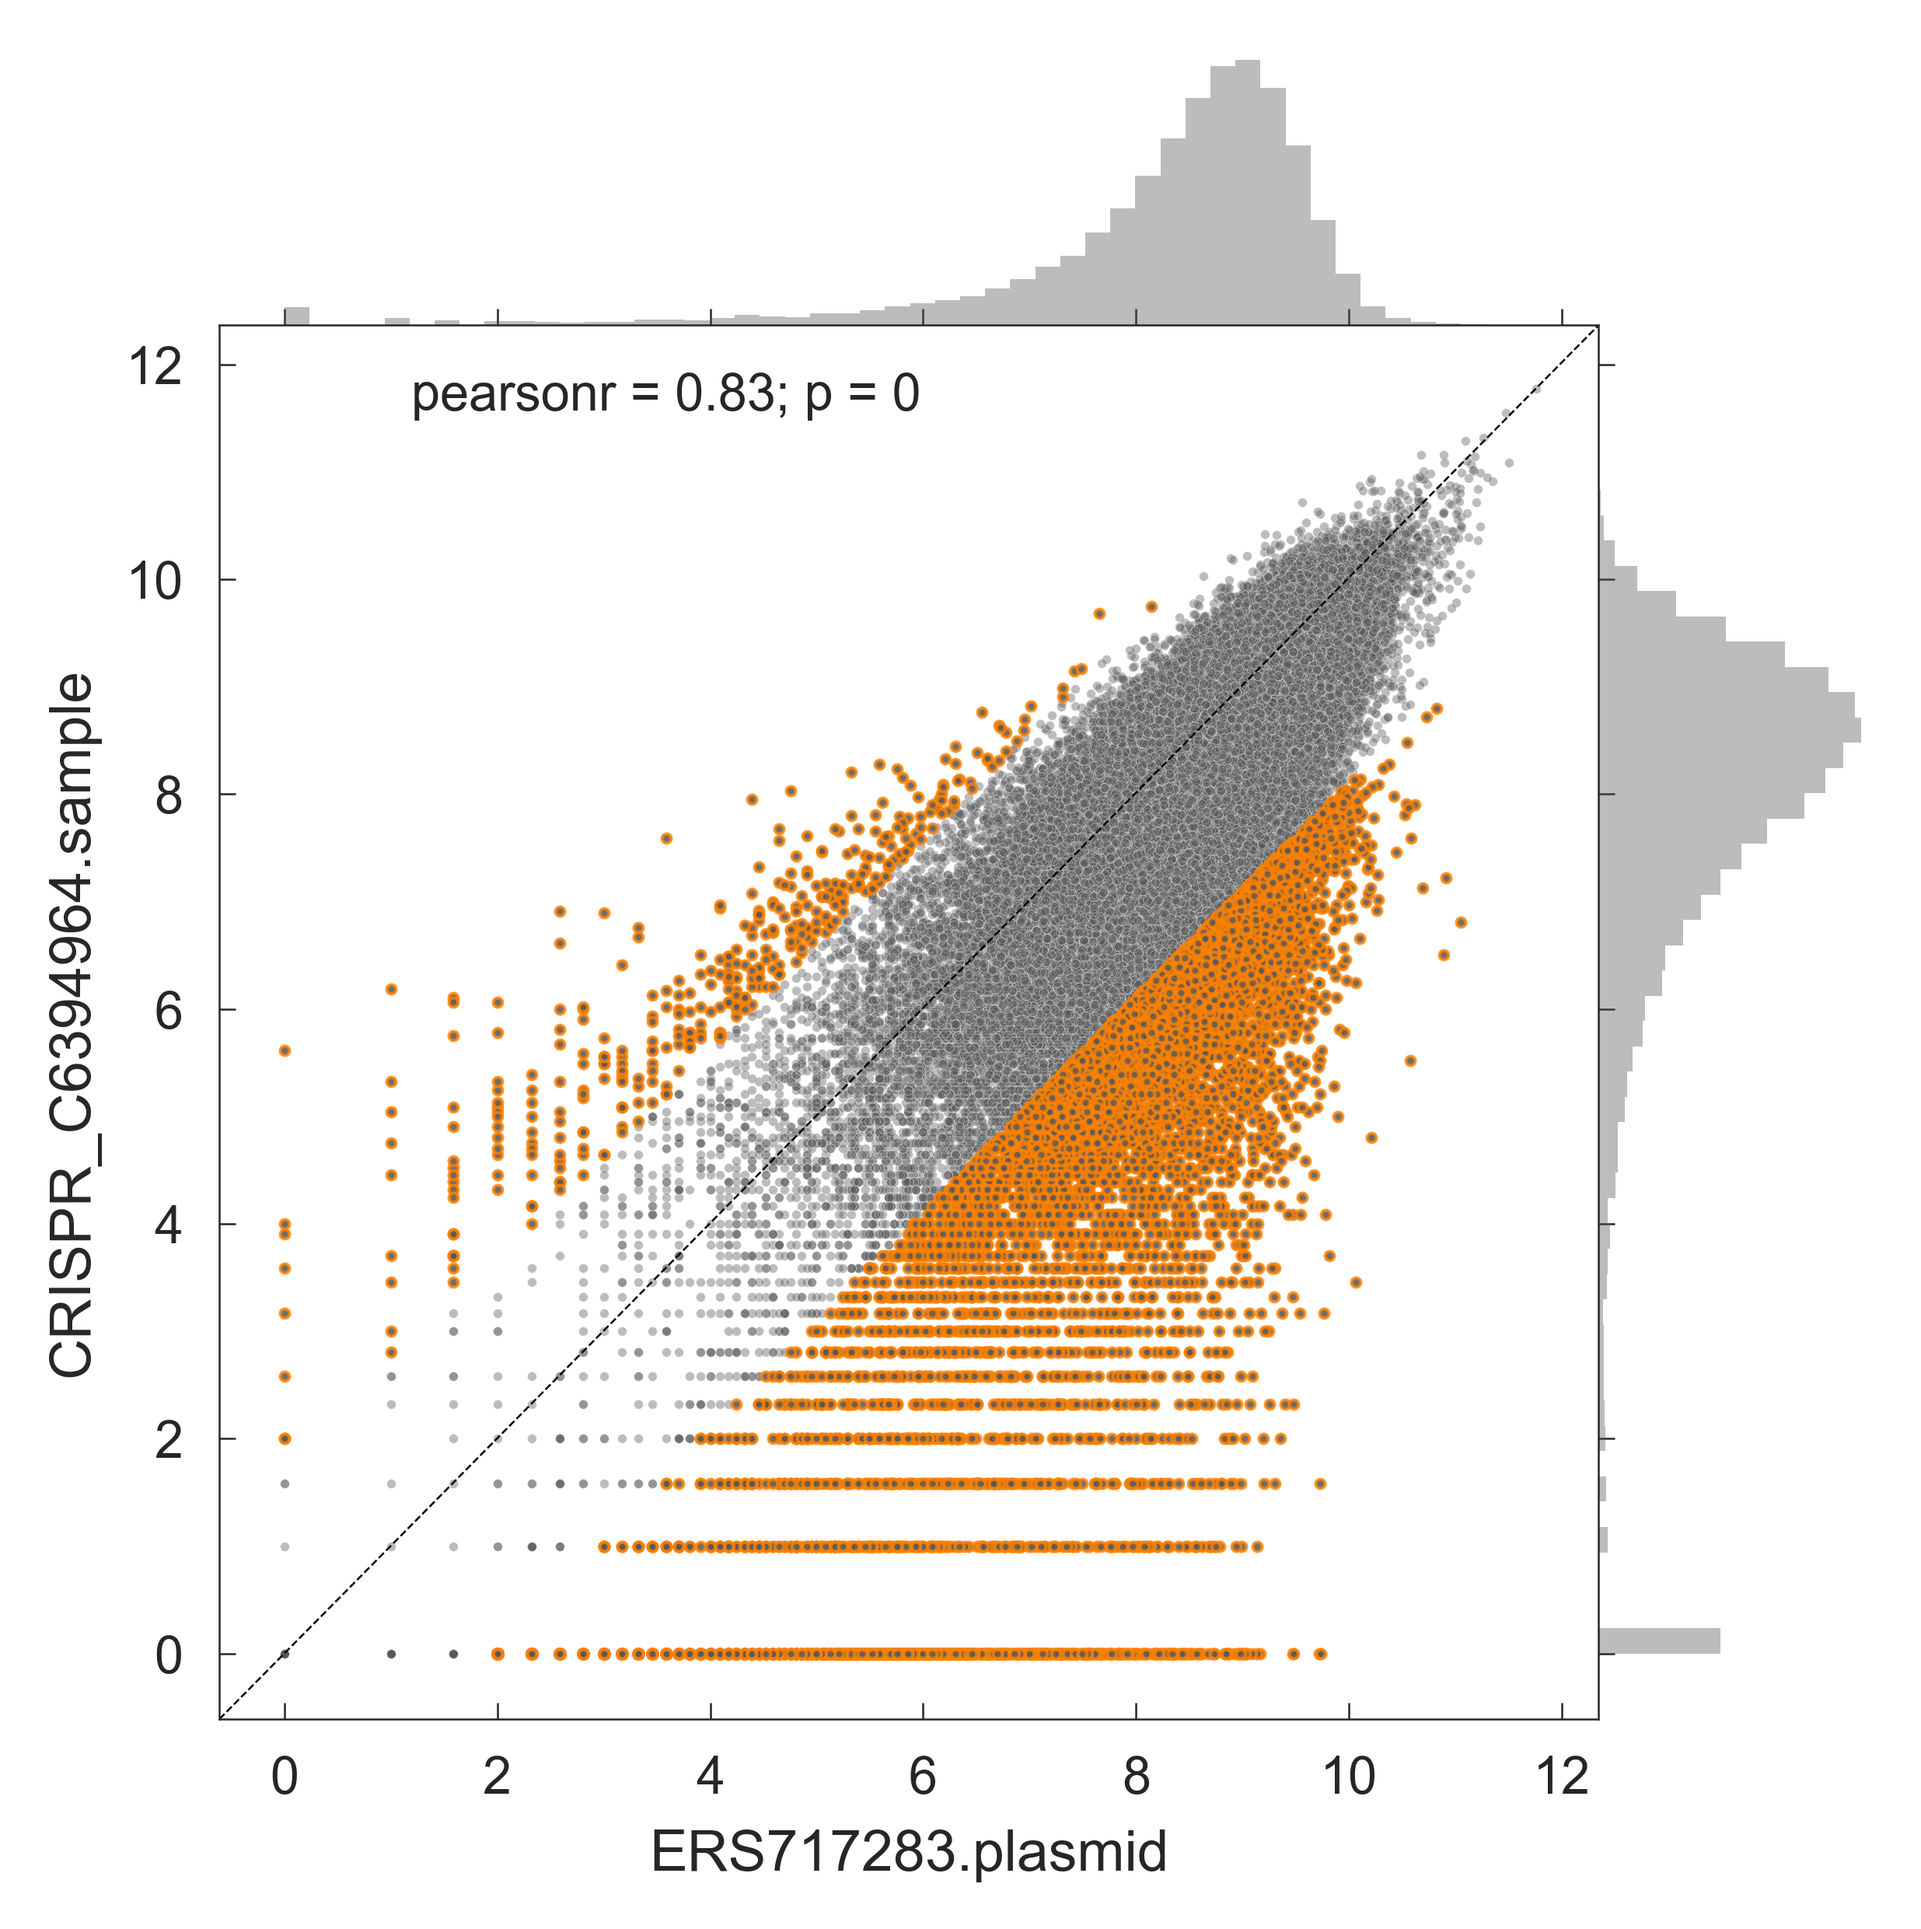
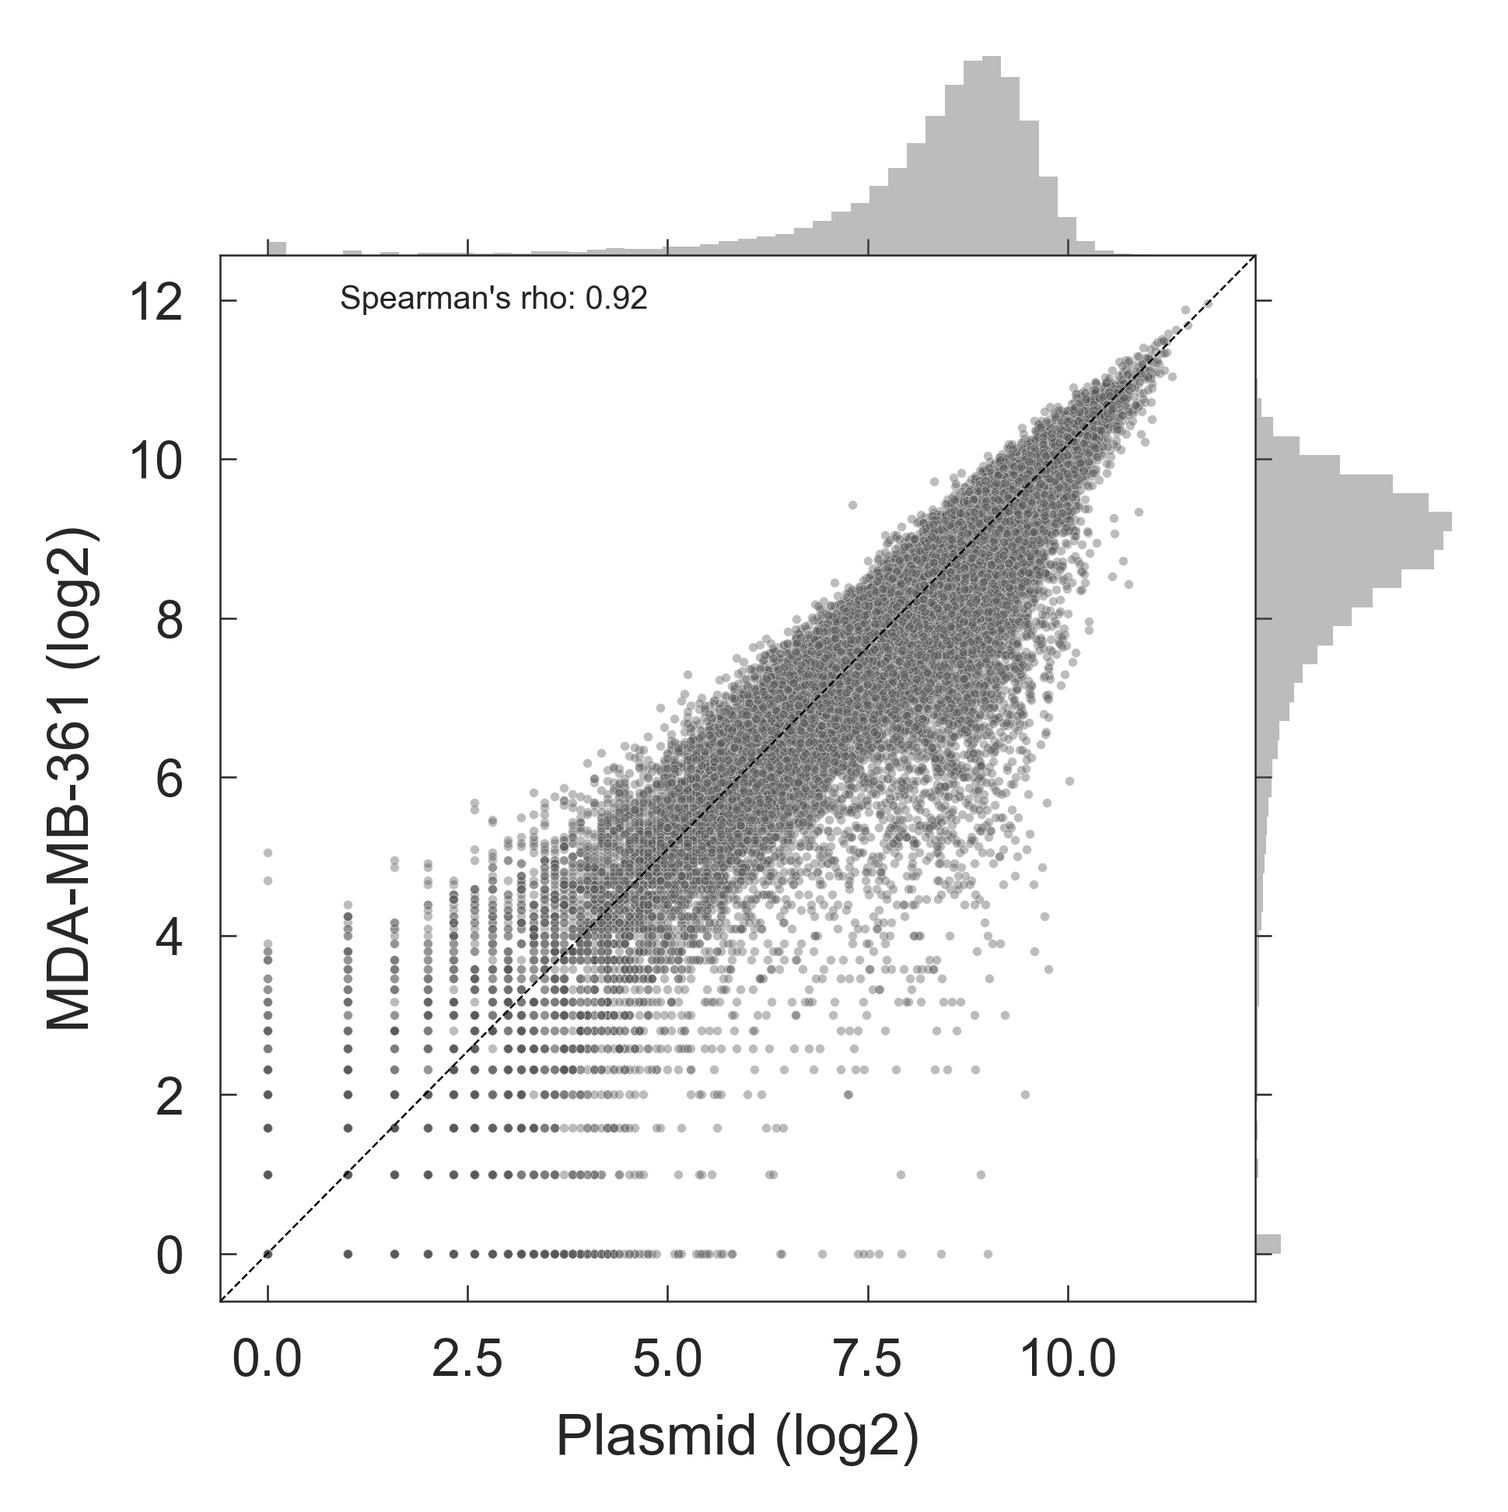
Metric plots adpated; CNV effect association with ploidy

diff --git a/crispy/metric/raw_counts.py b/crispy/metric/raw_counts.py
@@ -5,17 +5,24 @@ import crispy
 import numpy as np
 import pandas as pd
 import seaborn as sns
-from sklearn.svm import SVC
 import matplotlib.pyplot as plt
+from sklearn.svm import SVC
+from scipy.stats import spearmanr
 from sklearn.mixture import GaussianMixture
 
 # Utils
 cpal = {1: '#FF8200', 0: '#58595B'}
 controls = {'CRISPR_C6596666.sample', 'ERS717283.plasmid'}
 
-# Import
+# Impor
+# # sgRNA library
+sgrna_lib = pd.read_csv('data/gdsc/crispr/KY_Library_v1.1_annotated.csv', index_col=0).dropna(subset=['STARTpos', 'GENES'])
+
+# Essential genes
+essential = pd.read_csv('data/resources/curated_BAGEL_essential.csv', sep='\t')['gene'].rename('essential')
+
 # data = pd.read_csv('data/gdsc/crispr/raw_counts/HT29_C902R3_F2C50L30.read_count.tsv', sep='\t', index_col=0)\
-data = pd.read_csv('data/gdsc/crispr/raw_counts/AU565_c903R1.read_count.tsv', sep='\t', index_col=0)\
+data = pd.read_csv('data/gdsc/crispr/raw_counts/MB361_c904R1.read_count.tsv', sep='\t', index_col=0)\
     .drop(['sgPOLR2K_1'], errors='ignore').drop('gene', axis=1)
 data = np.log2(data + 1)
 
@@ -30,17 +37,55 @@ gmm_label = pd.Series(dict(zip(*(data.index, gmm.predict(data)))))
 
 #
 # x, y = 'ERS717283.plasmid', '3980STDY6310326.sample'
-x, y = 'ERS717283.plasmid', 'CRISPR_C6394964.sample'
+x, y = 'ERS717283.plasmid', 'CRISPR_C7020593.sample'
 
 g = sns.jointplot(x, y, data=data, space=0, color=cpal[0], joint_kws={'s': 2, 'lw': .1, 'edgecolor': 'white', 'alpha': .4})
-sns.regplot(
-    x, y, data=data.loc[gmm_label == 1], color=cpal[0], truncate=True, fit_reg=False,
-    scatter_kws={'s': 2, 'edgecolor': cpal[1], 'linewidth': .5, 'alpha': .8}, ax=g.ax_joint
-)
+# sns.regplot(
+#     x, y, data=data.loc[gmm_label == 1], color=cpal[0], truncate=True, fit_reg=False,
+#     scatter_kws={'s': 2, 'edgecolor': cpal[1], 'linewidth': .5, 'alpha': .8}, ax=g.ax_joint
+# )
+g.annotate(spearmanr, template='{stat}: {val:.2f}', loc='upper left', stat="Spearman's rho", fontsize=5)
+g.set_axis_labels('Plasmid (log2)', 'MDA-MB-361 (log2)')
 xlim, ylim = g.ax_joint.get_xlim(), g.ax_joint.get_ylim()
 g.ax_joint.plot(xlim, ylim, 'k--', lw=.3)
 g.ax_joint.set_xlim(xlim)
 g.ax_joint.set_ylim(ylim)
-plt.gcf().set_size_inches(4, 4)
+plt.gcf().set_size_inches(3, 3)
 plt.savefig('reports/raw_counts_metric.png', bbox_inches='tight', dpi=600)
+plt.close('all')
+
+#
+plot_df = data['CRISPR_C7020593.sample'] - data['ERS717283.plasmid']
+plot_df = plot_df.groupby(sgrna_lib.loc[plot_df.index, 'GENES']).mean().dropna()
+plot_df = pd.concat([
+    plot_df.rename('fc'),
+    pd.Series({g: 'Essential' if g in essential.values else 'All' for g in plot_df.index}).rename('Type')
+], axis=1)
+plot_df = plot_df.assign(dummy=1)
+
+sns.distplot(plot_df.query("Type == 'All'")['fc'], color=cpal[0], label='All')
+sns.distplot(plot_df.query("Type == 'Essential'")['fc'], color=cpal[1], label='Essential')
+plt.title('MDA-MB-361')
+plt.xlabel('Fold-change (log2)')
+plt.ylabel('Density')
+plt.legend(loc='upper left')
+plt.gcf().set_size_inches(3, 2)
+plt.savefig('reports/raw_counts_metric_hist.png', bbox_inches='tight', dpi=600)
+plt.close('all')
+
+
+sns.boxplot('Type', 'fc', data=plot_df, palette={'All': cpal[0], 'Essential': cpal[1]}, linewidth=.3, notch=True, fliersize=2)
+plt.title('MDA-MB-361')
+plt.ylabel('Fold-change (log2)')
+plt.xlabel('')
+plt.gcf().set_size_inches(1, 3)
+plt.savefig('reports/raw_counts_metric_boxplots.png', bbox_inches='tight', dpi=600)
+plt.close('all')
+
+sns.violinplot('dummy', 'fc', 'Type', split=True, data=plot_df, palette={'All': cpal[0], 'Essential': cpal[1]}, linewidth=.3, cut=0, inner='quartile')
+plt.title('MDA-MB-361')
+plt.ylabel('Fold-change (log2)')
+plt.xlabel('')
+plt.gcf().set_size_inches(1, 2)
+plt.savefig('reports/raw_counts_metric_violin.png', bbox_inches='tight', dpi=600)
 plt.close('all')

diff --git a/scripts/cnv_effect_var.py b/scripts/cnv_effect_var.py
@@ -26,6 +26,8 @@ sgrna_lib = pd.read_csv('data/gdsc/crispr/KY_Library_v1.1_annotated.csv', index_
 nexp = pickle.load(open('data/gdsc/nexp_pickle.pickle', 'rb'))
 
 # GDSC
+fc = pd.read_csv('data/crispr_gdsc_logfc.csv', index_col=0)
+ccrispy = pd.read_csv('data/crispr_gdsc_crispy.csv', index_col=0)
 c_gdsc = pd.DataFrame({
     os.path.splitext(f)[0].replace('crispr_gdsc_crispy_', ''):
         pd.read_csv('data/crispy/' + f, index_col=0)['k_mean']
@@ -35,7 +37,7 @@ c_gdsc = pd.DataFrame({
 # Copy-number absolute counts
 cnv = pd.read_csv('data/gdsc/copynumber/Gene_level_CN.txt', sep='\t', index_col=0)
 cnv = cnv.loc[:, cnv.columns.isin(list(c_gdsc))]
-cnv_abs = cnv.applymap(lambda v: int(v.split(',')[1]))
+cnv_abs = cnv.drop(['chr', 'start', 'stop'], axis=1).applymap(lambda v: int(v.split(',')[1]))
 
 # Copy-number segments
 cnv_seg = pd.read_csv('data/gdsc/copynumber/Summary_segmentation_data_994_lines_picnic.txt', sep='\t')
@@ -59,7 +61,24 @@ genes, samples = set(c_gdsc.index).intersection(cnv_abs.index), set(c_gdsc).inte
 print(len(genes), len(samples))
 
 
+# -
+plot_df = pd.concat([
+    (cnv_abs > 3).sum().rename('cnv'),
+    ploidy.rename('ploidy')
+], axis=1).dropna()
+
+g = sns.jointplot('cnv', 'ploidy', data=plot_df, color=bipal_dbgd[0], joint_kws={'edgecolor': 'white', 'lw': .3}, space=0)
+g.set_axis_labels('# gene with copy-number > 3', 'Cell line ploidy')
+plt.show()
+
+plt.gcf().set_size_inches(3, 3)
+plt.savefig('reports/ploidy_cnv_jointplot.png', bbox_inches='tight', dpi=600)
+plt.close('all')
+
 #
+
+
+# -
 df = pd.concat([
     c_gdsc.loc[genes, samples].unstack().rename('crispr'),
     cnv_abs.loc[genes, samples].unstack().rename('cnv')
